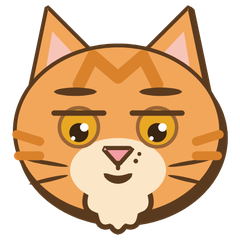
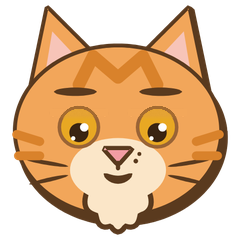
間違い探し：クリア画面のドラを丸い目に（仕事797）・答えを見たクリアでひと目で全部を出さない

Changed region(s): [[0.525, 0.4375, 0.7875, 0.4958], [0.2042, 0.4375, 0.4667, 0.4958]]

diff --git a/machigai/index.html b/machigai/index.html
@@ -5,7 +5,7 @@
   <meta name="viewport" content="width=device-width, initial-scale=1, viewport-fit=cover">
   <meta name="theme-color" content="#f7f0df">
   <title>カギしっぽバスケ部｜間違い探し</title>
-  <link rel="stylesheet" href="style.css?v=202610311955">
+  <link rel="stylesheet" href="style.css?v=202611090730">
 </head>
 <body>
   <div id="app" class="app-shell">
@@ -20,10 +20,10 @@
     <footer class="site-footer">カギしっぽバスケ部</footer>
   </div>
   <div id="toast" class="toast" role="status" aria-live="polite"></div>
-  <script src="data.js?v=202610311955"></script>
-  <script src="gohoubi.js?v=202610311955"></script>
-  <script src="corn.js?v=202610311955"></script>
-  <script src="app.js?v=202610311955"></script>
-  <script src="koukai.js?v=202610311955"></script>
+  <script src="data.js?v=202611090730"></script>
+  <script src="gohoubi.js?v=202611090730"></script>
+  <script src="corn.js?v=202611090730"></script>
+  <script src="app.js?v=202611090730"></script>
+  <script src="koukai.js?v=202611090730"></script>
 </body>
 </html>

diff --git a/machigai/app.js b/machigai/app.js
@@ -1014,7 +1014,7 @@
     counter.firstChild.textContent = `${found.size} / ${spots(month, level).length}`;
     counter.classList.remove('bump'); void counter.offsetWidth; counter.classList.add('bump');
     const complete = found.size >= spots(month, level).length;
-    lastClearPerfect = complete && row >= spots(month, level).length;
+    lastClearPerfect = complete && !view.revealed && !helpUsed.has(key) && row >= spots(month, level).length;
     document.getElementById('hint-line').textContent = lastClearPerfect ? 'ひと目で全部！' : complete ? '全部見つけた！' : row >= 2 ? `はずさず ${row}つ！` : '見つけた！　次の違いを探そう。';
     if (complete) { state.cleared ||= {}; state.cleared[gameKey(month, level)] = true; saveState(); }
     updateOverall(); foundSound(complete, lastClearPerfect ? 5 : row);
